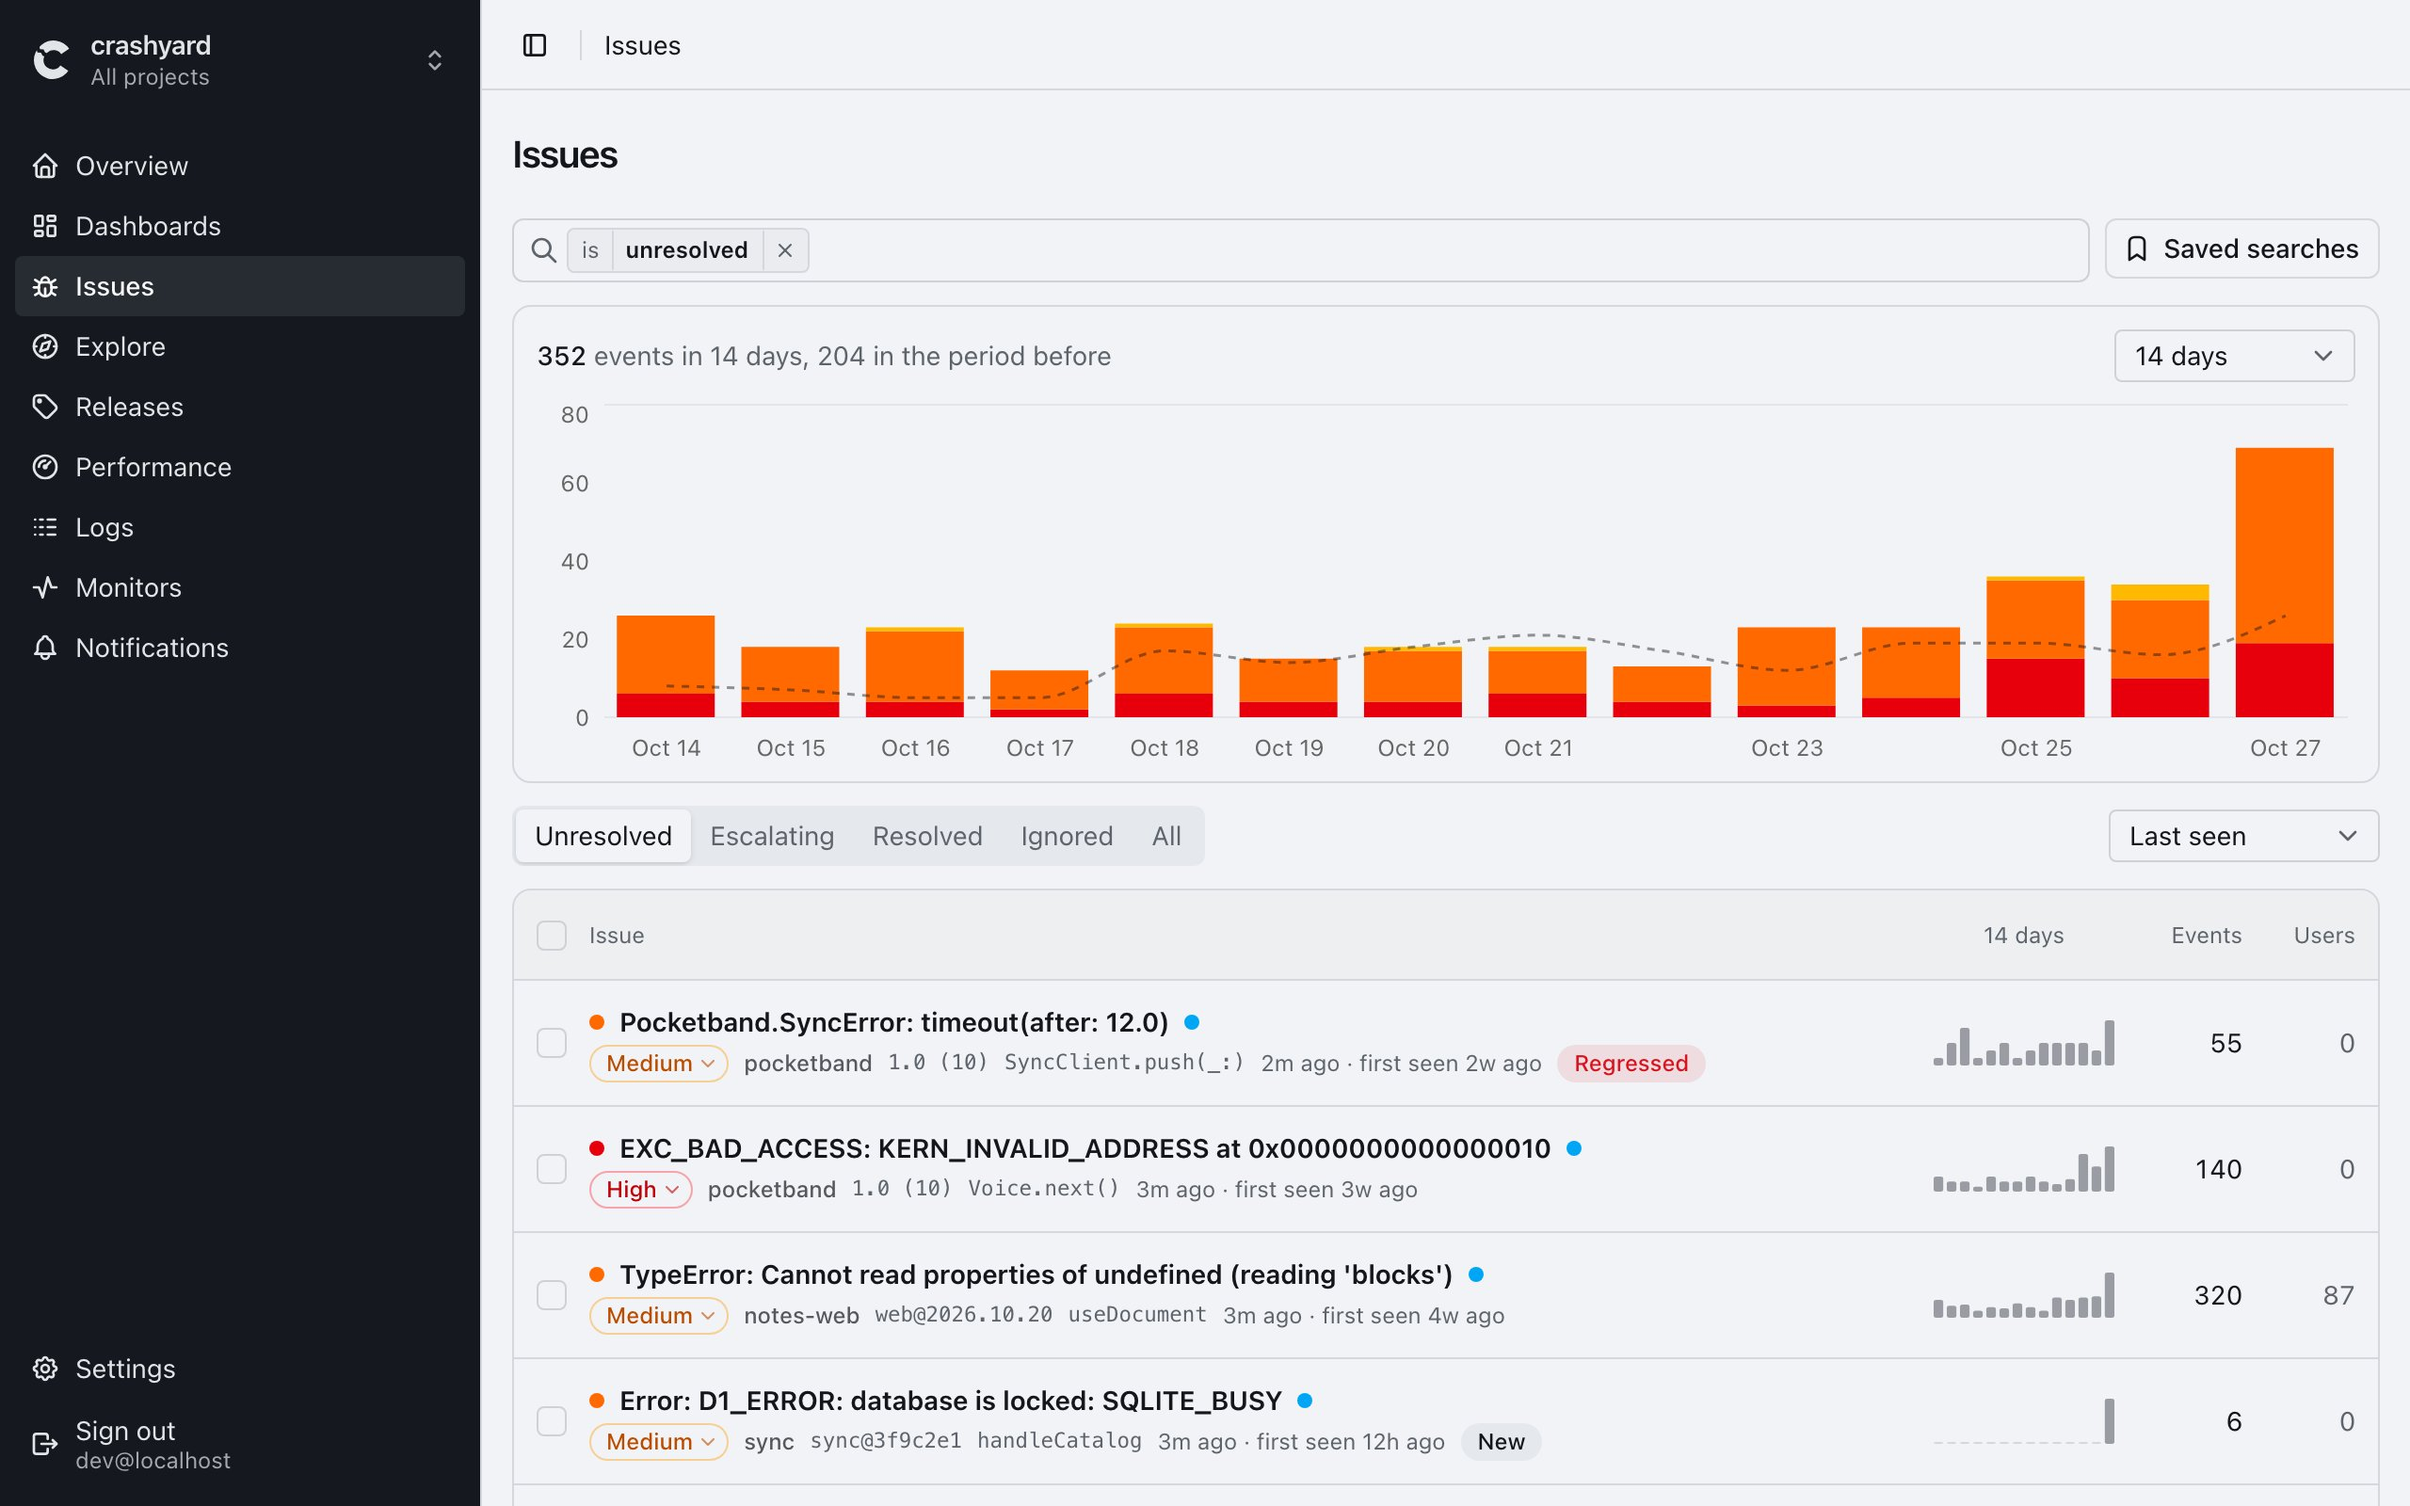
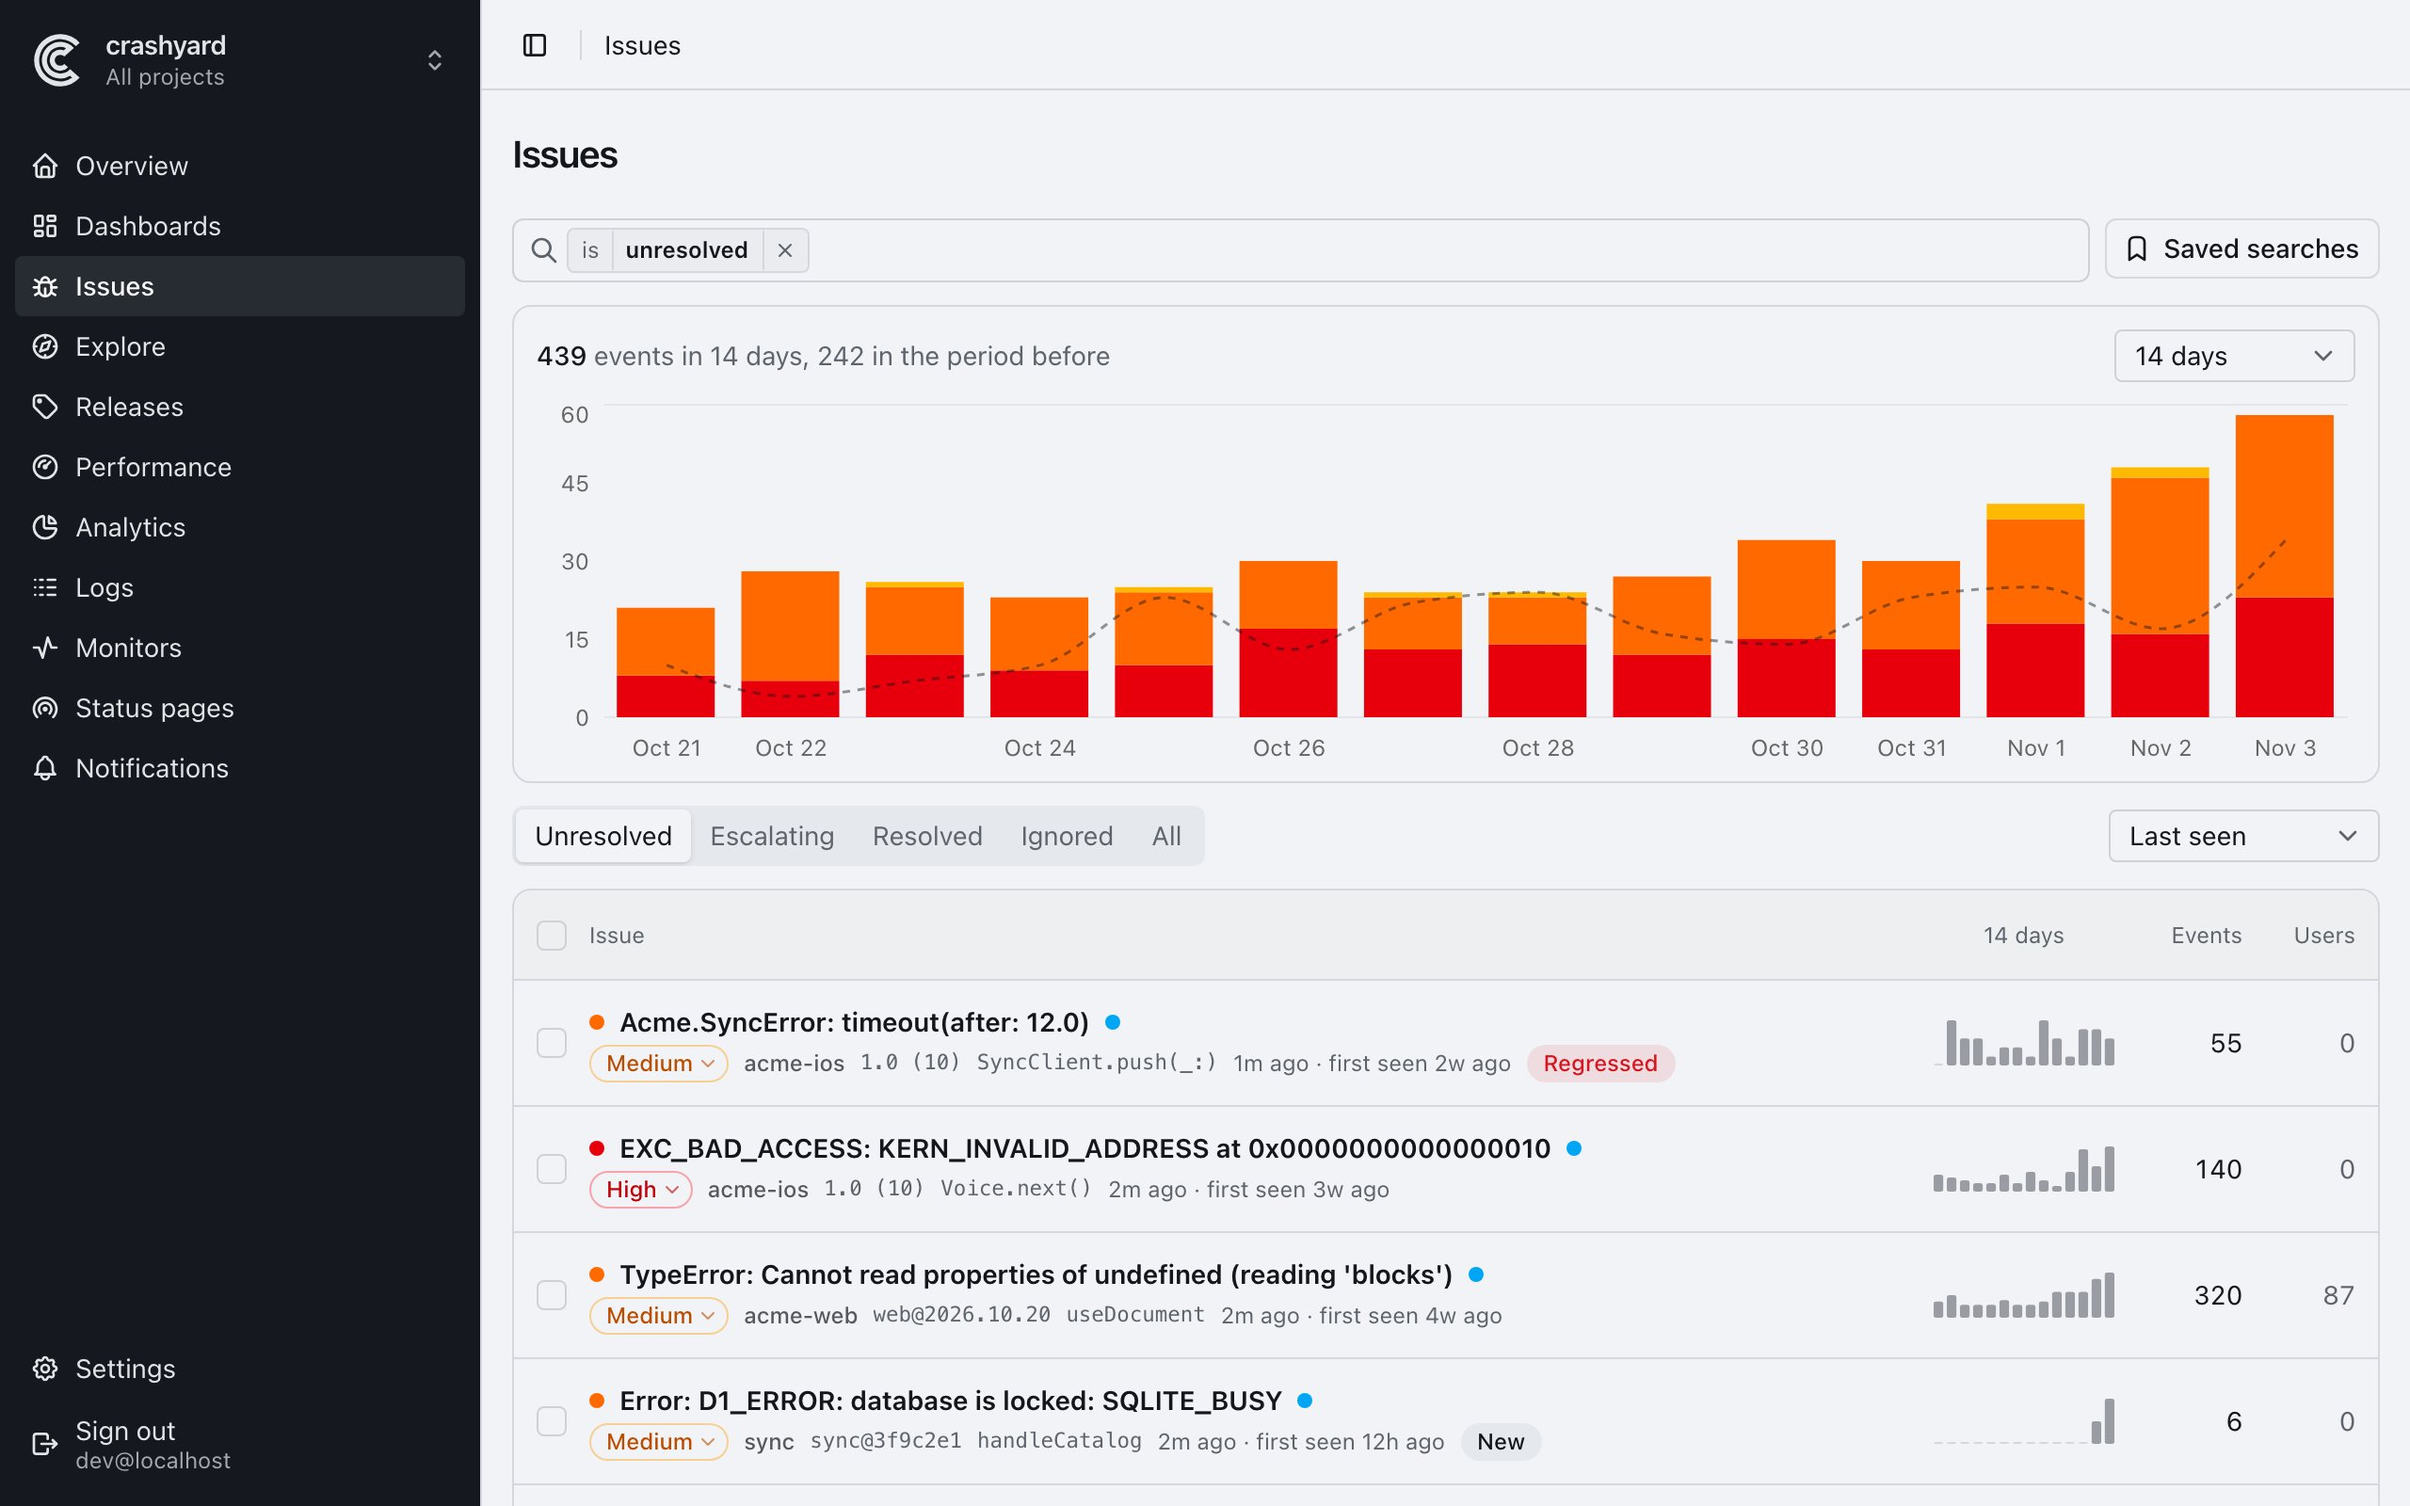
docs: product analytics in the docs, and a new README screenshot
How to send an action in linking.md, actions in the architecture,
retention and log item docs, the README's tagline and dashboards, and
the issues list retaken with the current logo and sidebar.

diff --git a/docs/sentry-compatibility.md b/docs/sentry-compatibility.md
@@ -44,7 +44,7 @@ A few SDKs behave in ways worth knowing, and Sentry sees the same:
 | `event`                                                                | An error, crash or message. Scrubbed, symbolicated and grouped into an issue                                                                                                     |
 | `attachment`                                                           | Stored in R2, up to 1 MB each, and shown on its event with a download                                                                                                            |
 | `feedback`, `user_report`                                              | User feedback, shown on its issue                                                                                                                                                |
-| `log`                                                                  | Sentry logs. Stored, searchable and linked to their trace                                                                                                                        |
+| `log`                                                                  | Sentry logs. Stored, searchable and linked to their trace. A log with `crashyard.action` set is an action, counted under Analytics                                               |
 | `check_in`                                                             | Cron monitors. A check-in with a schedule creates the monitor                                                                                                                    |
 | `transaction`                                                          | Summarized as counts, percentiles and the slowest few with their spans, not kept whole. Its `measurements` give web and mobile vitals                                            |
 | `span`, the streamed span v2 format                                    | Treated as transactions, one per segment span. JavaScript SDKs send these since v11, sentry-dart since 10. Spans that come before their segment are held for a day until it does |

diff --git a/README.md b/README.md
@@ -2,7 +2,7 @@
 
 [![OpenSSF Scorecard](https://api.scorecard.dev/projects/github.com/marctorrelles/crashyard/badge)](https://scorecard.dev/viewer/?uri=github.com/marctorrelles/crashyard)
 
-Crash reporting, error tracking and logs that run on your own Cloudflare account.
+Crash reporting, error tracking, logs and product analytics that run on your own Cloudflare account.
 
 **[Try the live demo](https://demo.crashyard.dev)** with six made-up apps sending real crashes, or read more on
 [crashyard.dev](https://crashyard.dev).
@@ -52,8 +52,10 @@ crashyard speaks Sentry's protocol. It isn't affiliated with Sentry.
   funnels you can save, with conversion by release; weekly retention; flows; each person's timeline; a Product
   dashboard template; and alerts on an action's count. Actions and errors share their users, so a funnel shows how
   many people stopped at a step after an error, and retention compares those who hit one with those who didn't.
-  Actions count towards the daily log limit and are kept 365 days.
-- **Dashboards.** Build charts, numbers and tables from issues, events and logs, or start from the Crashes template.
+  Actions count towards the daily log limit and are kept 365 days. [docs/linking.md](docs/linking.md#product-analytics)
+  shows how to send them.
+- **Dashboards.** Build charts, numbers and tables from issues, events, logs and actions, or start from the Crashes or
+  Product template.
 - **Monitors.** Cron monitors for scheduled jobs and uptime checks for URLs, with public status pages showing the
   checks you choose from any of your projects. Post incidents, notices and planned maintenance with their updates and
   the services they affect, with your own look and your own domain.

diff --git a/docs/linking.md b/docs/linking.md
@@ -203,6 +203,26 @@ Some SDKs need logs turned on first:
 - Apple: `options.experimental.enableLogs = true`.
 - Android: `io.sentry.logs.enabled`.
 
+## Product analytics
+
+An action is a log with `crashyard.action` set. crashyard counts it under Analytics instead of listing it under Logs:
+
+```js
+Sentry.setUser({ id: account.id })
+Sentry.logger.info('song exported', { format: 'wav', 'crashyard.action': true })
+```
+
+The log's message is the action's name, and its other attributes are its properties, so `format` can filter and break
+down any chart. Logs have to be turned on first, as above. Each action records its platform, OS, device, browser,
+release and the visitor's country, never their IP address.
+
+Set the user before sending actions. Actions and errors are matched by the user's id, or their email or username when
+there is no id, so a funnel shows who stopped after an error. Without a user, an action still counts towards totals
+but not towards active users, funnels, retention or flows.
+
+Actions count towards the project's daily log limit. They are kept for its action retention, 365 days unless you change
+it in the project's settings, under Limits and retention.
+
 ## Cron jobs and uptime
 
 A scheduled job checks in each time it runs, and crashyard alerts you when a run is missed, fails or takes too long:

diff --git a/docs/architecture.md b/docs/architecture.md
@@ -22,7 +22,7 @@ flowchart LR
 
   ingest --> symbolic
   upload --> symbolic
-  ingest --> d1[("D1<br/>issues, events, logs,<br/>monitors, performance")]
+  ingest --> d1[("D1<br/>issues, events, logs, actions,<br/>monitors, performance")]
   ingest --> r2[("R2<br/>raw and pending envelopes,<br/>attachments, debug files, source maps")]
   upload --> r2
   upload --> d1
@@ -37,7 +37,7 @@ flowchart LR
 - **Ingest**, in `src/api/ingest.ts` and `src/ingest/`. Each envelope is checked against its project's key and daily
   limits, kept in R2 while it's processed, then each item in it is handled. An item that fails is tried again by the
   scheduled task. An event is scrubbed, symbolicated, fingerprinted and stored in its issue.
-  Logs, check-ins, transactions and sessions go to their own tables. Anything worth an alert, such as a new issue, a
+  Logs, actions, check-ins, transactions and sessions go to their own tables. Anything worth an alert, such as a new issue, a
   regression or a threshold, becomes an alert that is sent after the response, through `ctx.waitUntil`.
 - **Readable stack traces**, in `src/symbols/` and `symcache/`. Sentry's own `symbolic` library, written in Rust, is
   compiled to WebAssembly and runs in the worker. Uploads are turned into SymCaches and SourceMapCaches in R2, and each

diff --git a/docs/deploying.md b/docs/deploying.md
@@ -225,7 +225,7 @@ What fills up first on Free:
 
 - **D1 writes.** Free allows 100,000 rows written a day, and an event writes about 30, so a few thousand events a day.
 - **D1 storage.** A database holds 500 MB on Free and 10 GB on Paid. Settings, Health shows how much is used. Each
-  project's retention decides how long events and logs stay.
+  project's retention decides how long events, logs and actions stay.
 - **R2 writes.** Free includes a million class A operations a month, which hold about 16,000 events a day.
 
 ## Backups
